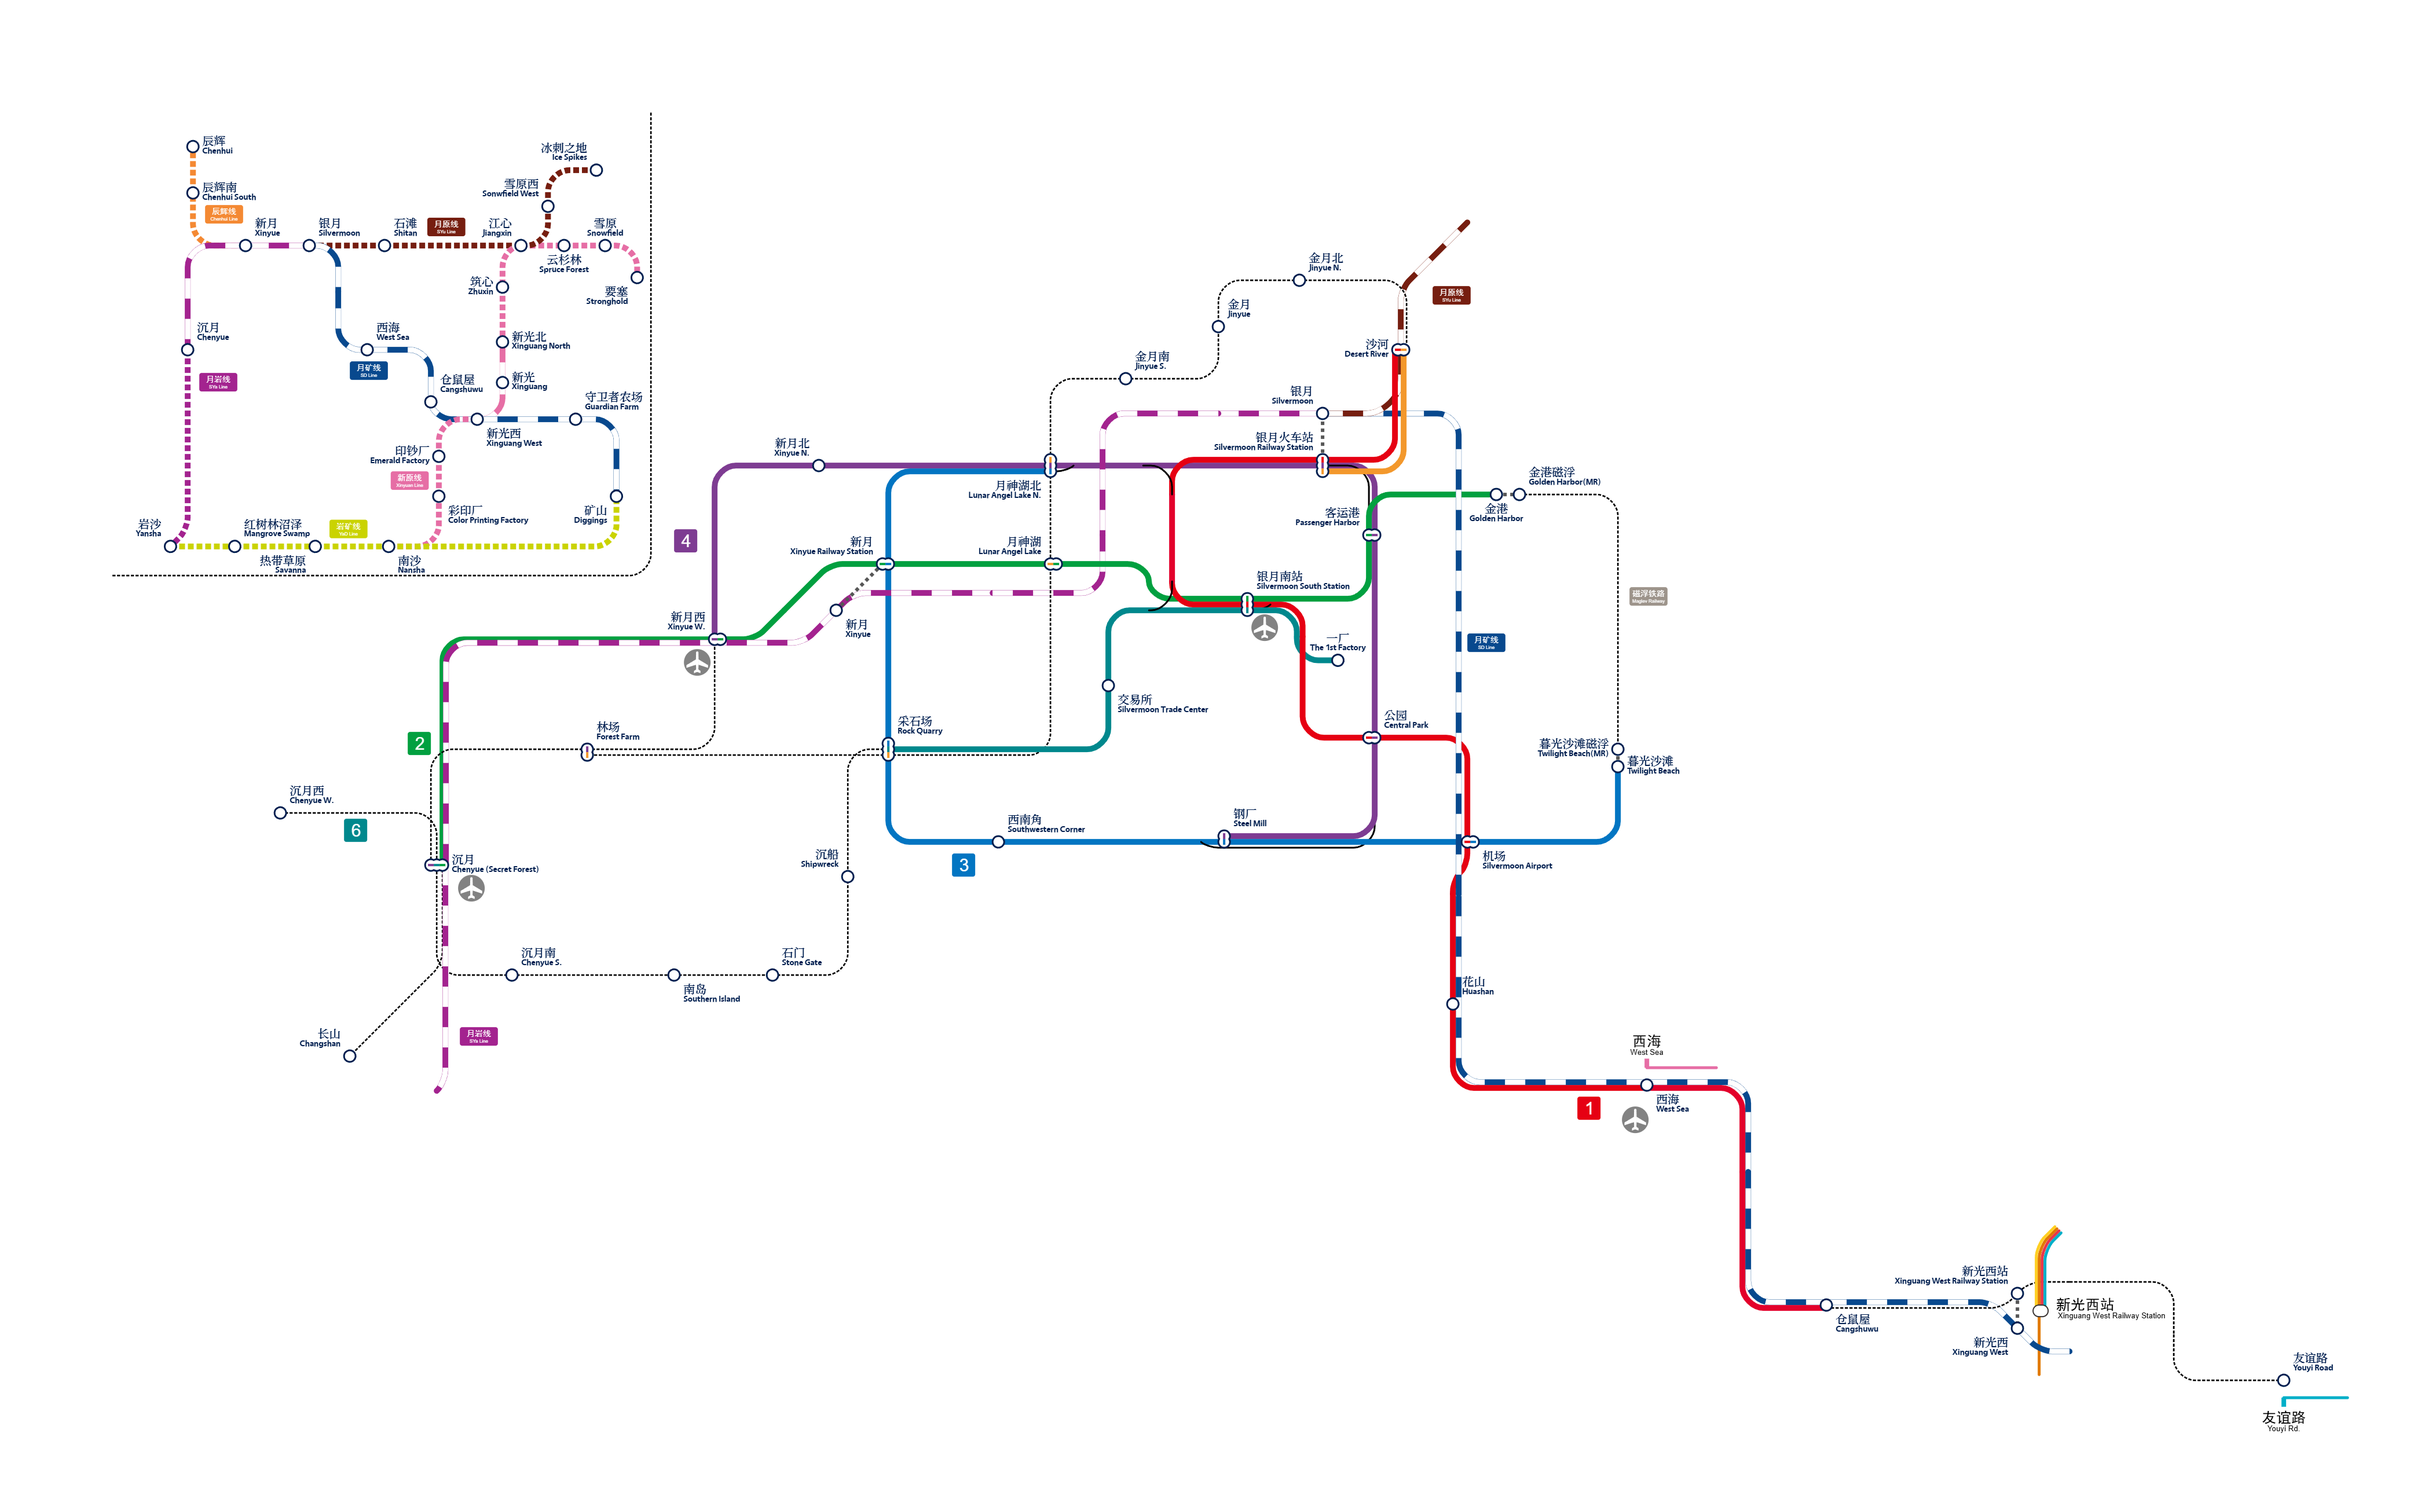
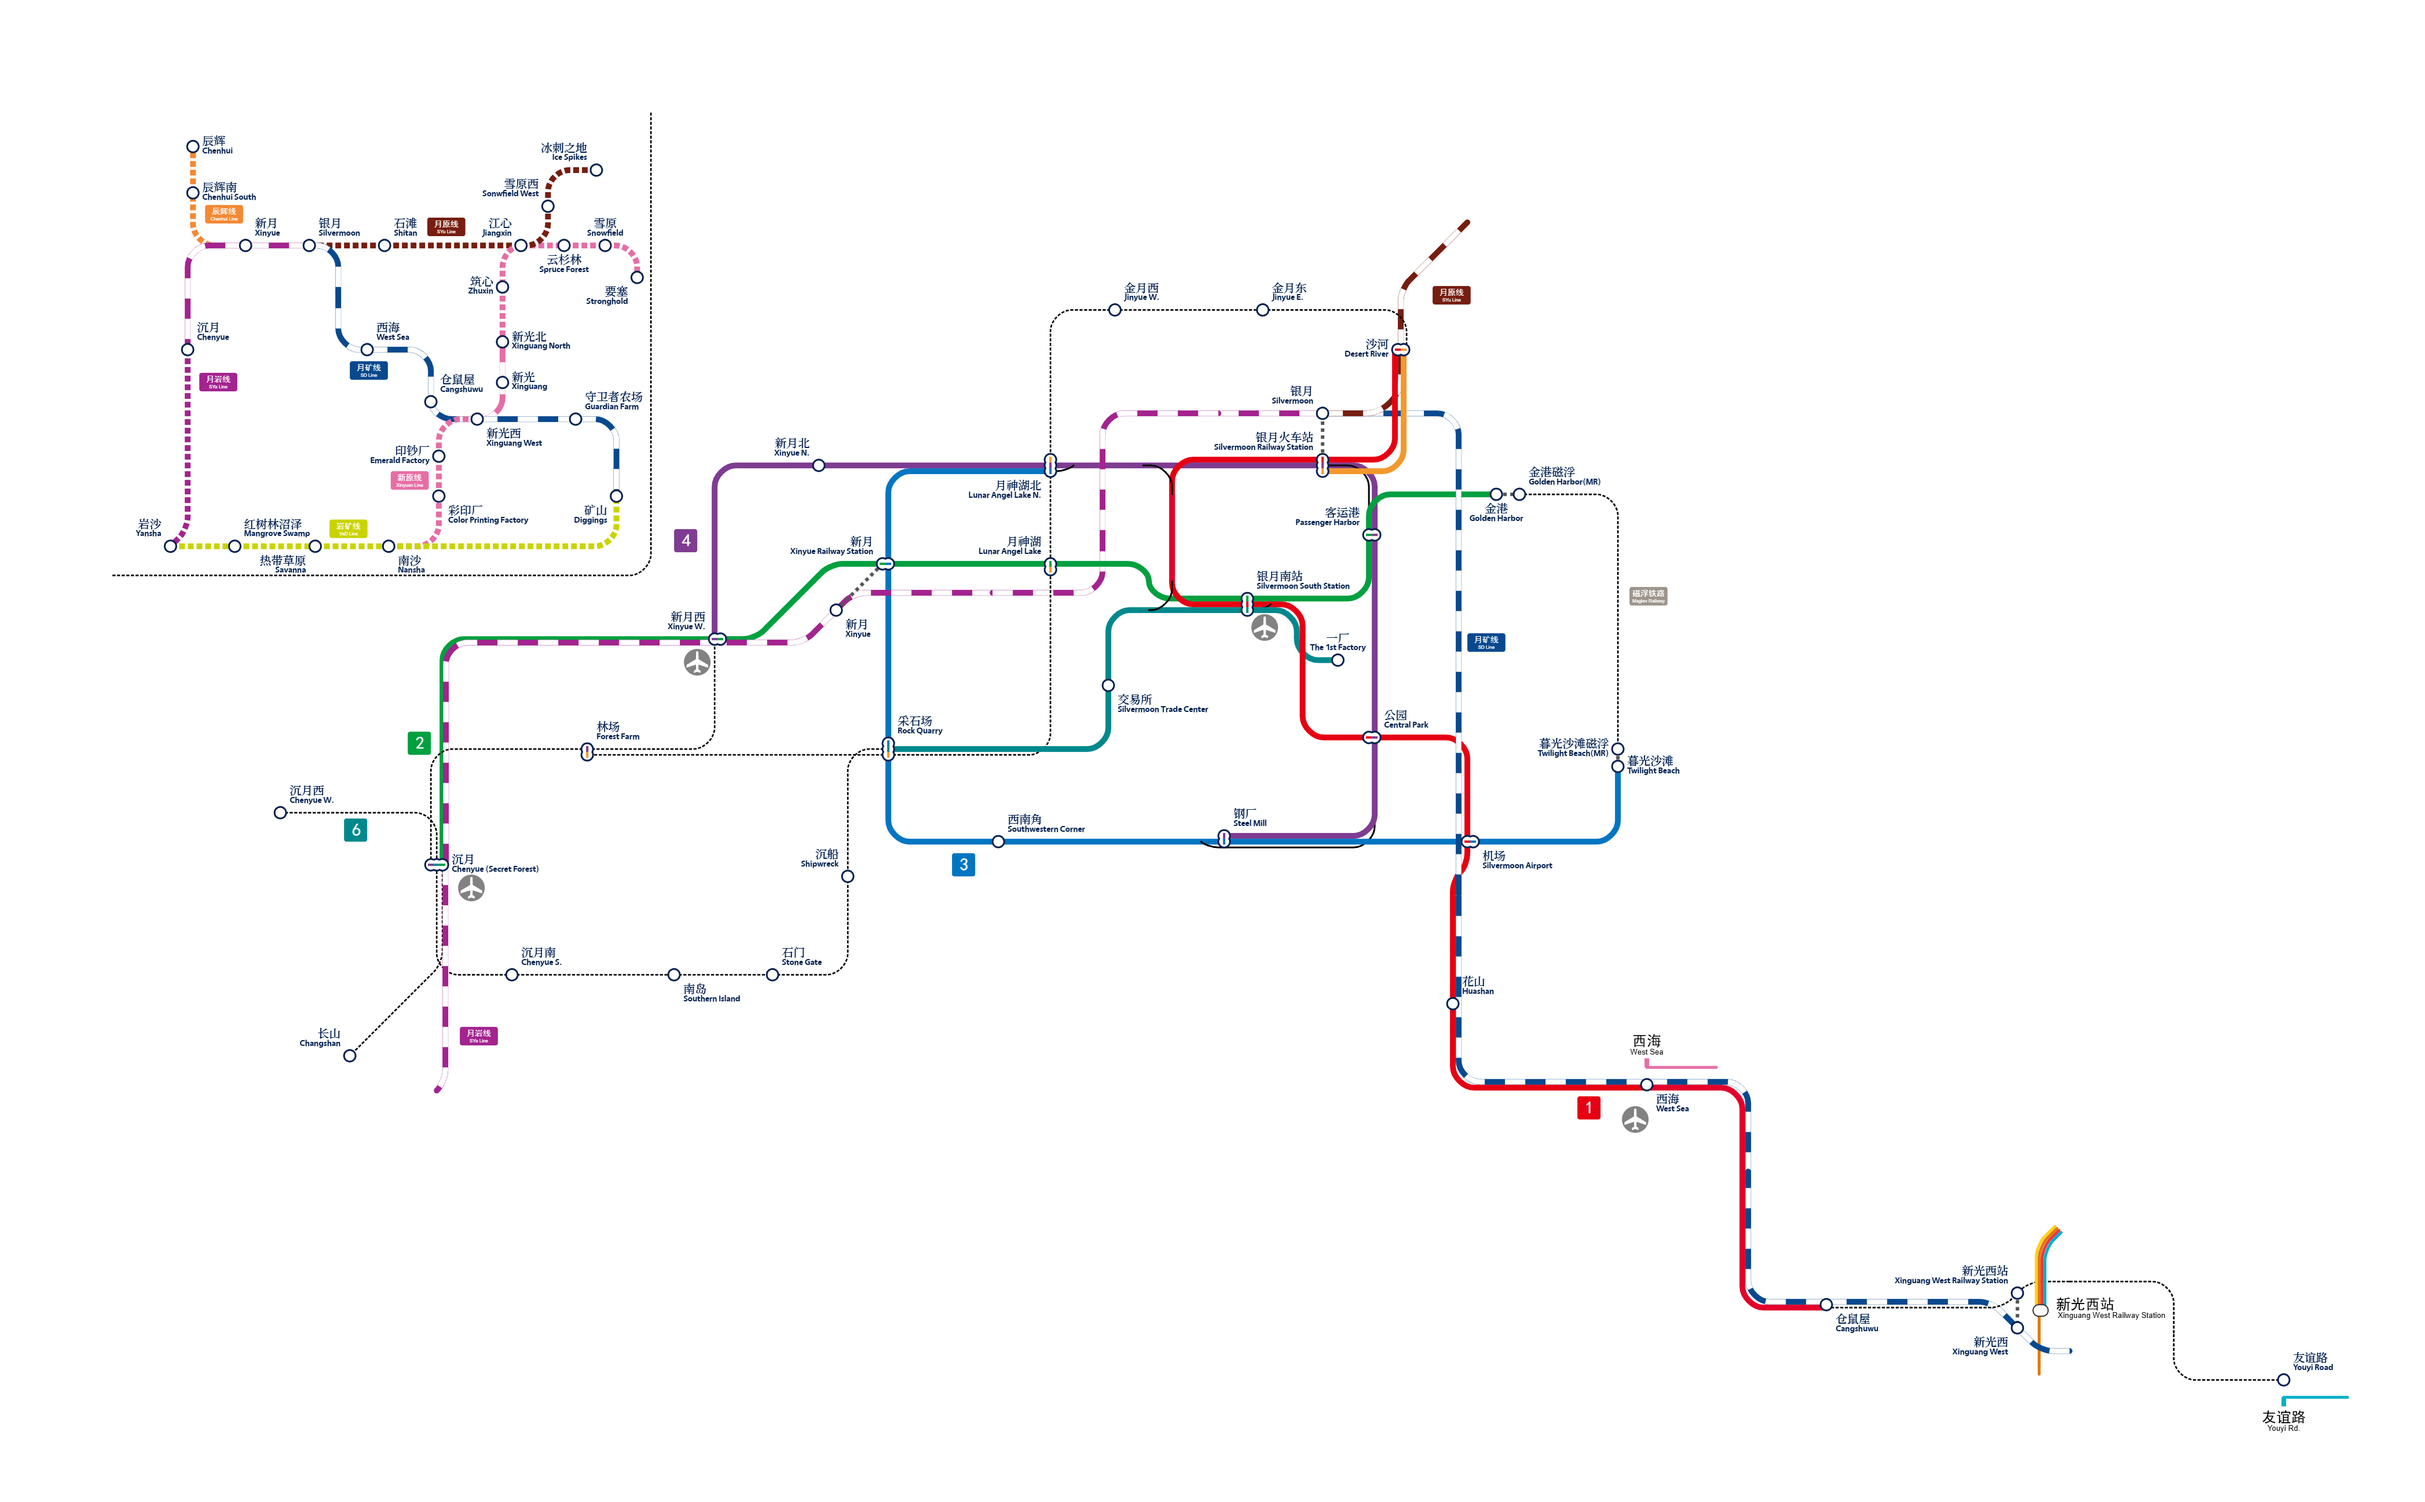
更新地铁规划

diff --git a/docs/servers/SurvivalIII/railway_transit/silvermoon.md b/docs/servers/SurvivalIII/railway_transit/silvermoon.md
@@ -23,7 +23,7 @@ description: 了解银月地铁迅猛发展的背后。
 - **2 号线**：金港 — 长山，「新月（不含） — 长山（不含）」段贯通国铁月岩线，共 8 站；
 - **3 号线**：月神湖北 — 暮光沙滩，「南门 — 月神湖北」段与 4 号线建设联络线成环线，共 7 站；
 - **4 号线**：南门 — 沉月，「月神湖北 — 南门」段与 3 号线建设联络线成环线，共 9 站;
-- **5 号线**：银月火车站 — 林场，「银月火车站 — 新月（不含）」段贯通国铁月原线，共 9 站；
+- **5 号线**：银月火车站 — 林场，「银月火车站 — 新月（不含）」段贯通国铁月原线，共 8 站；
 - **6 号线**：沉月西 — 一厂，单线（仅银月南站前后与 1 号线共线部分为复线），共 10 站。
 
 另外远期计划建设一条连接金港和暮光沙滩的磁悬浮铁路（具体的建设风格待定）。
